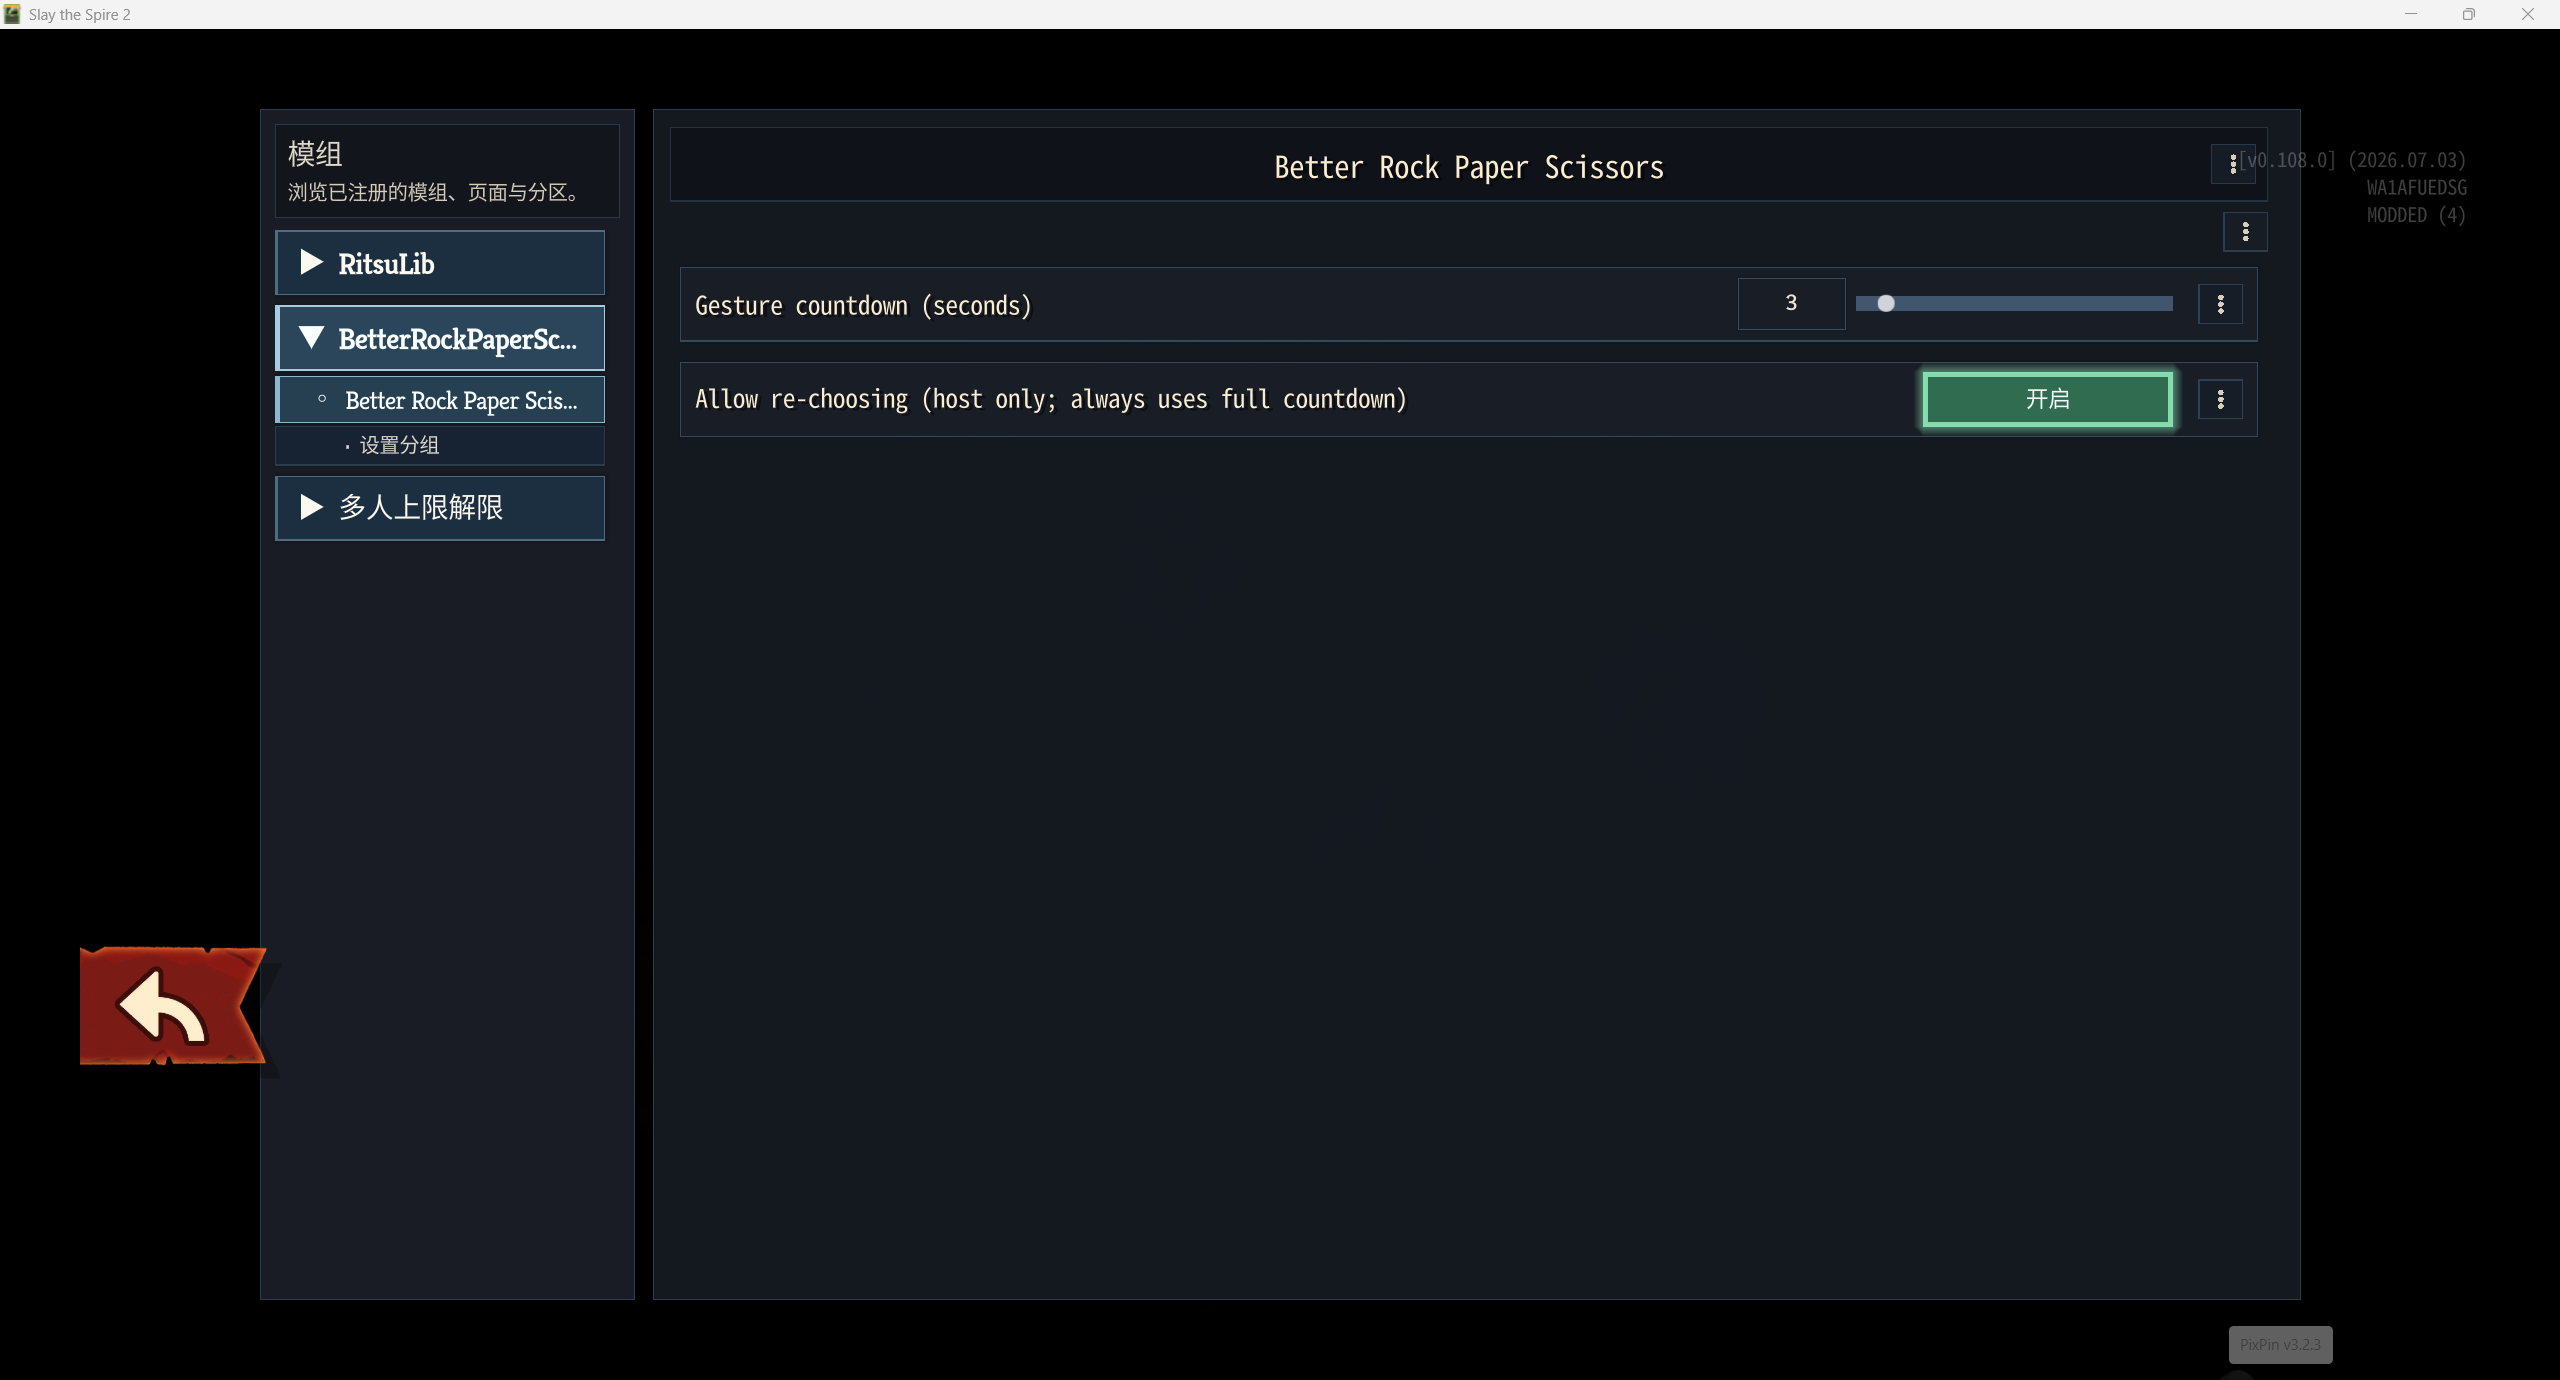
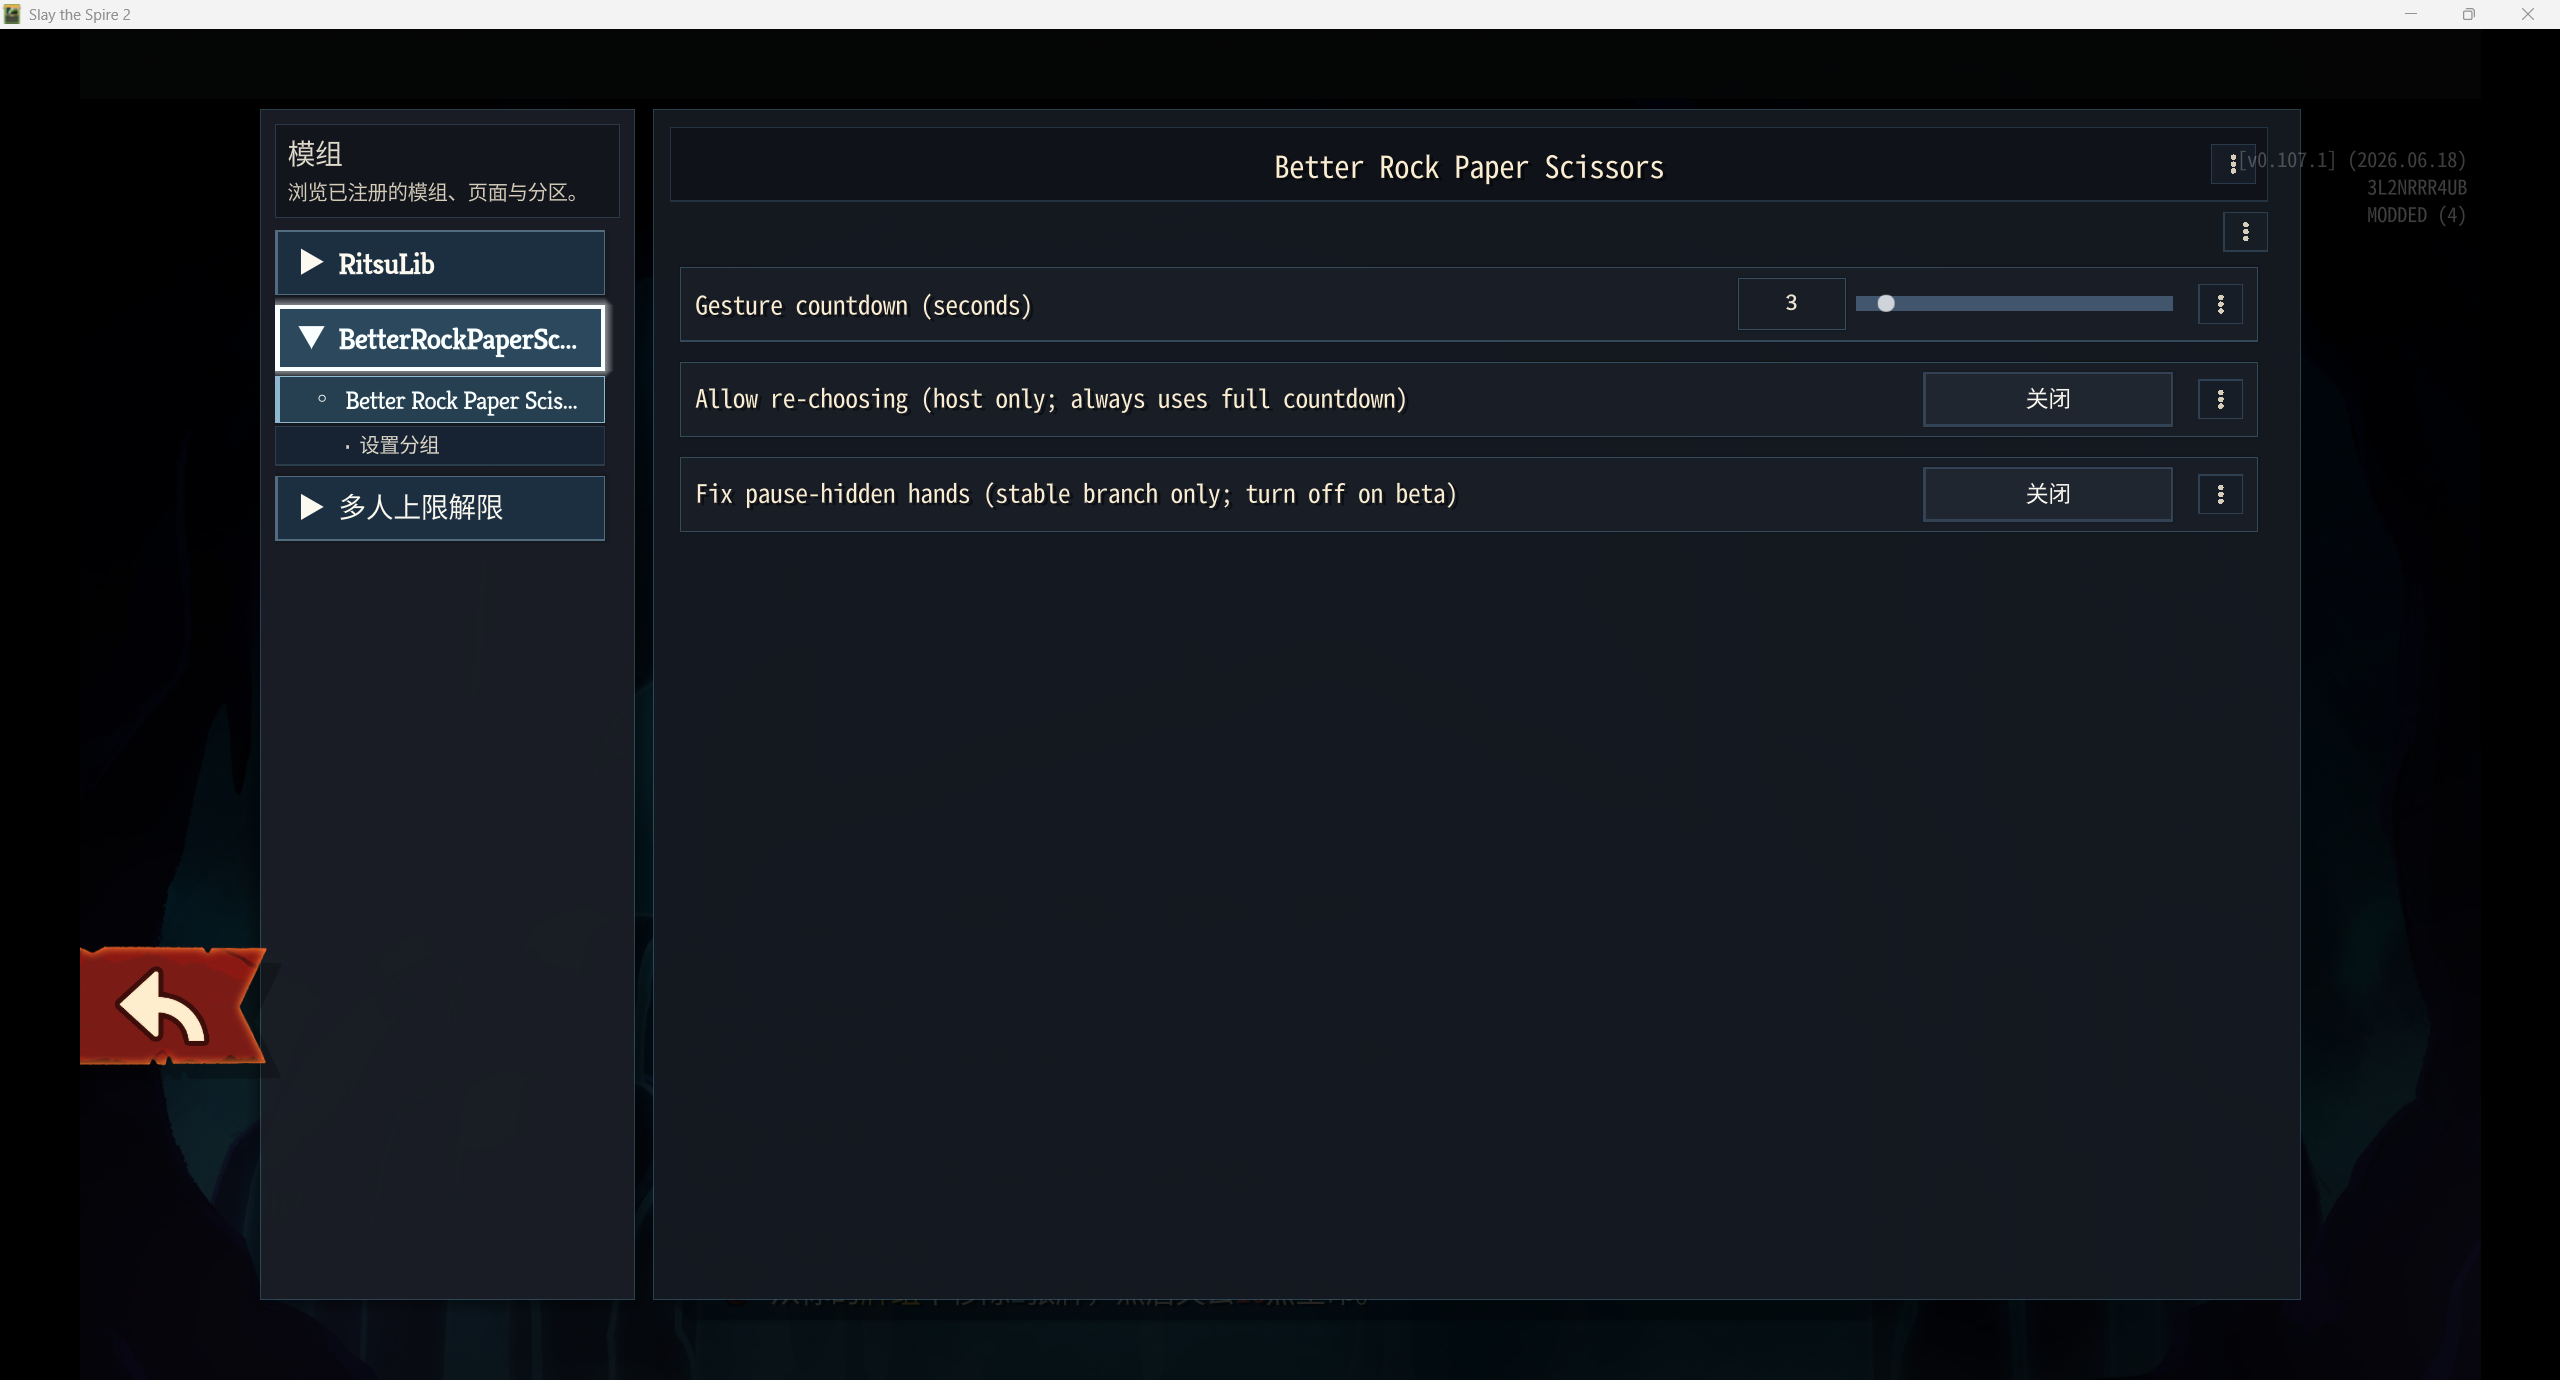
v0.1.1 is tested and works correctly.

diff --git a/src/Patches/HandRestoreOnResumePatch.cs b/src/Patches/HandRestoreOnResumePatch.cs
@@ -1,0 +1,82 @@
+using System.Reflection;
+using Godot;
+using HarmonyLib;
+using MegaCrit.Sts2.Core.Nodes.Screens.TreasureRoomRelic;
+using STS2BetterRockPaperScissors.Settings;
+
+namespace STS2BetterRockPaperScissors.Patches;
+
+/// <summary>
+/// Backfills the STABLE game branch's broken <c>NHandImage.AnimateIn</c> so a fighter hand that
+/// retracted off-screen while a menu was open animates back on-screen when it re-appears.
+///
+/// The bug: during relic awards, hands are in <c>State.Frozen</c>. When a player opens the pause/ESC
+/// menu, their synced screen state changes, so stock <c>NHandImageCollection.UpdateHandVisibility</c>
+/// calls <c>AnimateAway()</c>, which overwrites the hand's private <c>_desiredPosition</c> with an
+/// OFF-screen point. On resume it calls <c>AnimateIn()</c> — but on stable, <c>AnimateIn</c> only
+/// re-runs the slide-in progress tween and never restores <c>_desiredPosition</c> for a frozen hand, so
+/// <c>_Process</c> keeps driving the hand toward the off-screen target. The hand only comes back when
+/// the relic grab later recomputes its position. In real multiplayer this happens per-hand, driven by
+/// each peer's OWN synced screen state, so a remote player's paused hand stays hidden on EVERY peer's
+/// screen — not just their own.
+///
+/// The BETA branch fixed this in-engine by adding, at the end of <c>AnimateIn</c>:
+/// <code>if (_state == State.Frozen) _desiredPosition = GetFrozenPosition();</code>
+/// This postfix reproduces exactly that. Patching <c>AnimateIn</c> itself (rather than watching the
+/// local pause state) means it fires uniformly for local and remote hands, matching beta.
+///
+/// Gated by <see cref="ModConfig.RestoreHandsOnResume"/> — leave OFF on beta so we don't double-apply
+/// the engine's own restore. If the target method or private field can't be resolved the patch simply
+/// doesn't apply (TargetMethod throws are caught by Harmony's PatchAll only if present; here they're
+/// guarded so the rest of the mod still loads).
+/// </summary>
+[HarmonyPatch]
+public static class HandRestoreOnResumePatch
+{
+    private static readonly Type HandType = AccessTools.TypeByName(
+        "MegaCrit.Sts2.Core.Nodes.Screens.TreasureRoomRelic.NHandImage");
+
+    private static readonly FieldInfo DesiredPositionField =
+        HandType != null ? AccessTools.Field(HandType, "_desiredPosition") : null;
+    private static readonly FieldInfo StateField =
+        HandType != null ? AccessTools.Field(HandType, "_state") : null;
+    private static readonly object FrozenStateValue = ResolveFrozen();
+
+    private static object ResolveFrozen()
+    {
+        Type stateType = StateField?.FieldType;
+        if (stateType != null && stateType.IsEnum && Enum.IsDefined(stateType, "Frozen"))
+            return Enum.Parse(stateType, "Frozen");
+        return null;
+    }
+
+    /// <summary>True when every handle resolved, so the postfix can actually run.</summary>
+    private static bool Available =>
+        HandType != null && DesiredPositionField != null && StateField != null && FrozenStateValue != null;
+
+    private static MethodBase TargetMethod()
+    {
+        if (HandType == null)
+            throw new Exception("Cannot find NHandImage type");
+        MethodInfo method = AccessTools.Method(HandType, "AnimateIn");
+        if (method == null)
+            throw new Exception("Cannot find NHandImage.AnimateIn method");
+        return method;
+    }
+
+    private static void Postfix(NHandImage __instance)
+    {
+        if (!Available || !ModConfig.RestoreHandsOnResume)
+            return;
+        // Only touch hands the game has frozen for the awards phase; leave pointing/grabbing hands alone.
+        if (!Equals(StateField.GetValue(__instance), FrozenStateValue))
+            return;
+
+        // Reproduce beta's GetFrozenPosition(): the resting spot the frozen hand slides in to. Matches
+        // stock SetFrozenForRelicAwards' math exactly.
+        Rect2 viewportRect = __instance.GetViewportRect();
+        Vector2 down = Vector2.Down.Rotated(__instance.Rotation);
+        Vector2 frozen = viewportRect.Size / 2f + viewportRect.Size * down * 0.1667f;
+        DesiredPositionField.SetValue(__instance, frozen);
+    }
+}

diff --git a/src/Settings/ModConfig.cs b/src/Settings/ModConfig.cs
@@ -18,12 +18,14 @@ public static class ModConfig
     private const int DefaultCountdownSeconds = 3;
     private const int MaxCountdownSeconds = 30;
     private const bool DefaultAllowReset = false;
+    private const bool DefaultRestoreHandsOnResume = false;
 
     /// <summary>The serialized config model. Kept tiny on purpose.</summary>
     private class Data
     {
         public int CountdownSeconds = DefaultCountdownSeconds;
         public bool AllowReset = DefaultAllowReset;
+        public bool RestoreHandsOnResume = DefaultRestoreHandsOnResume;
     }
 
     /// <summary>Countdown in seconds before a move is auto-picked, clamped to the valid range.</summary>
@@ -45,6 +47,16 @@ public static class ModConfig
     /// host's value (carried on the round-began message), not their own.
     /// </summary>
     public static bool AllowReset => Store.Get<Data>(DataKey).AllowReset;
+
+    /// <summary>
+    /// When true, the mod reseats each frozen fighter hand's resting position when the pause/ESC menu
+    /// closes, so a hand that retracted off-screen while paused animates back on-screen. This works
+    /// around a bug in the STABLE game branch where <c>NHandImage.AnimateIn</c> re-runs the slide-in
+    /// tween but never restores a frozen hand's target position, so the pauser's hand stays off-screen
+    /// until the relic grab. The BETA branch already fixes this in-engine, so leave this OFF on beta to
+    /// avoid fighting the game's own restore. Local/cosmetic only — never touched on non-fighter peers.
+    /// </summary>
+    public static bool RestoreHandsOnResume => Store.Get<Data>(DataKey).RestoreHandsOnResume;
 
     private static ModDataStore Store => RitsuLibFramework.GetDataStore(Entry.ModId);
 
@@ -85,6 +97,16 @@ public static class ModConfig
                         SaveScope.Global,
                         () => Store.Get<Data>(DataKey).AllowReset,
                         value => Store.Get<Data>(DataKey).AllowReset = value,
+                        () => Store.Save(DataKey)))
+                .AddToggle(
+                    "restore_hands_on_resume",
+                    ModSettingsText.Literal("Fix pause-hidden hands (stable branch only; turn off on beta)"),
+                    new ModSettingsCallbackValueBinding<bool>(
+                        Entry.ModId,
+                        "restore_hands_on_resume",
+                        SaveScope.Global,
+                        () => Store.Get<Data>(DataKey).RestoreHandsOnResume,
+                        value => Store.Get<Data>(DataKey).RestoreHandsOnResume = value,
                         () => Store.Save(DataKey)))));
     }
 }

diff --git a/src/Fight/InteractiveFightResolver.cs b/src/Fight/InteractiveFightResolver.cs
@@ -271,21 +271,25 @@ public static class InteractiveFightResolver
 
         while (remaining > 0.0)
         {
-            // Without re-choosing, a completed pick is final — end the round as soon as everyone's in.
-            if (!allowReset
-                && AllSurvivorsReady(relicKey, round, fighters, survivors, localIndex, realMultiplayer, overlay))
-                return;
-
             if (tree == null)
             {
                 await Task.Delay((int)(remaining * 1000));
                 return;
             }
 
+            // Without re-choosing, a completed pick is final — end the round as soon as everyone's in.
+            if (!allowReset
+                && AllSurvivorsReady(relicKey, round, fighters, survivors, localIndex, realMultiplayer, overlay))
+                return;
+
             await tree.ToSignal(tree, SceneTree.SignalName.ProcessFrame);
             remaining -= tree.Root.GetProcessDeltaTime();
             overlay?.SetRemaining(remaining, countdownSeconds);
-            animator?.SyncPauseVisibility(); // hide the raised fight visuals while the ESC menu is up
+            // The ESC menu is a game-logic pause, not a scene-tree pause, so the countdown keeps draining
+            // (correct: the host's authoritative timer never stops, so freezing locally would desync).
+            // Just hide the raised fight visuals + picker while a menu covers them, and restore on resume.
+            animator?.SyncPauseVisibility();
+            overlay?.SyncPauseVisibility();
         }
     }
 
@@ -375,7 +379,10 @@ public static class InteractiveFightResolver
             await tree.ToSignal(tree, SceneTree.SignalName.ProcessFrame);
             remaining -= tree.Root.GetProcessDeltaTime();
             overlay.SetRemaining(remaining, countdownSeconds);
-            animator?.SyncPauseVisibility(); // hide the raised fight visuals while the ESC menu is up
+            // Countdown keeps draining while a menu is open (stays in sync with the host); just hide and
+            // restore the raised fight visuals + picker. See RunAuthoritativeCountdown.
+            animator?.SyncPauseVisibility();
+            overlay.SyncPauseVisibility();
         }
 
         // Catch a pick/re-choose that landed on the final frame before the loop ended.

diff --git a/src/GamePauseState.cs b/src/GamePauseState.cs
@@ -1,0 +1,21 @@
+using MegaCrit.Sts2.Core.Nodes.Screens.Capstones;
+
+namespace STS2BetterRockPaperScissors;
+
+/// <summary>
+/// Branch-agnostic "is a menu covering the run" check.
+///
+/// The beta branch exposes <c>RunManager.Instance.IsPaused</c>, but the stable branch's RunManager has
+/// no such member, so binding to it fails to link on stable. Instead we read the capstone container,
+/// which is byte-for-byte identical across both branches. <c>NCapstoneContainer.InUse</c> is true
+/// whenever a capstone screen is open over the run — the ESC/pause menu (opened via
+/// <c>SubmenuStack.ShowScreen(CapstoneSubmenuType.PauseMenu)</c>, which routes through this container),
+/// plus settings/deck/compendium views — all of which should hide the raised RPS visuals and freeze the
+/// pick window. This is the same signal the game's own top-bar pause button checks against
+/// (NTopBarPauseButton.IsOpen). The static Instance is null-guarded, so this is safe to call every
+/// frame, including before a run node exists.
+/// </summary>
+internal static class GamePauseState
+{
+    public static bool IsMenuOpen => NCapstoneContainer.Instance?.InUse ?? false;
+}

diff --git a/src/Overlays/RpsPickerOverlay.cs b/src/Overlays/RpsPickerOverlay.cs
@@ -44,7 +44,7 @@ public sealed class RpsPickerView
     private readonly TaskCompletionSource<RelicPickingFightMove?> _result =
         new(TaskCreationOptions.RunContinuationsAsynchronously);
 
-    private static readonly Color ResetGlyphColor = new(0.953f, 0.882f, 0.663f); // #f3e1a9
+    private static readonly Color ResetGlyphColor = new(0.992f, 0.925f, 0.796f); // #fdeccb
 
     private readonly Button[] _buttons = new Button[3]; // indexed by (int)RelicPickingFightMove
     private readonly ProgressBar _countdownBar;
@@ -281,6 +281,20 @@ public sealed class RpsPickerView
     }
 
     /// <summary>
+    /// Hide the whole picker while a menu (ESC/pause, settings, ...) covers the run, and re-show it on
+    /// resume. The picker sits at max ZIndex so it stays above the fight backstop, which also means it
+    /// would otherwise draw over the pause menu (that menu is a game-logic pause, not a scene-tree pause,
+    /// so it shares this canvas layer). Called every frame from the resolver loop, INCLUDING while paused
+    /// (SetRemaining is skipped during the pause freeze), so visibility must live here, not there.
+    /// </summary>
+    public void SyncPauseVisibility()
+    {
+        if (_closed)
+            return;
+        _root.Visible = !GamePauseState.IsMenuOpen;
+    }
+
+    /// <summary>
     /// Updates the countdown progress bar. <paramref name="total"/> is the full countdown so the bar
     /// can show a fraction and lerp its fill color green→red as time runs out. Driven by the
     /// resolver's per-frame loop. Keeps ticking after a pick (the chosen hand + bar stay on screen
@@ -290,10 +304,6 @@ public sealed class RpsPickerView
     {
         if (_closed)
             return;
-        // The picker sits at max ZIndex so it stays above the fight backstop, which also means it would
-        // otherwise draw over the pause/ESC menu (that menu uses a game-logic pause, not a scene-tree
-        // pause, so it shares this canvas layer). Hide the whole overlay while the game is paused.
-        _root.Visible = !RunManager.Instance.IsPaused;
         double fraction = total > 0.0 ? Math.Clamp(seconds / total, 0.0, 1.0) : 0.0;
         _countdownBar.Value = fraction;
         _countdownFill.BgColor = CountdownEmpty.Lerp(CountdownFull, (float)fraction);

diff --git a/src/Fight/FightAnimator.cs b/src/Fight/FightAnimator.cs
@@ -260,7 +260,7 @@ public sealed class FightAnimator
     {
         if (!Available || !_fightVisualsActive)
             return;
-        bool paused = RunManager.Instance.IsPaused;
+        bool paused = GamePauseState.IsMenuOpen;
         _backstop.Visible = !paused;
         if (GodotObject.IsInstanceValid(_activeHolder))
             _activeHolder.Visible = !paused;

diff --git a/readme.md b/readme.md
@@ -8,7 +8,7 @@ game with Harmony.
 ## Vanilla compatibility
 
 This mod does not ship replacement game files. It changes behavior entirely at runtime by
-(1) two Harmony patches on vanilla methods, (2) reflection-driven calls into private members of the
+(1) three Harmony patches on vanilla methods, (2) reflection-driven calls into private members of the
 relic-fight nodes, and (3) consuming a number of stock APIs and types as-is. The sections below list
 exactly what is touched, why, and where other mods are likely to collide.
 
@@ -30,6 +30,14 @@ exactly what is touched, why, and where other mods are likely to collide.
 
       (`NGame.Instance.CursorManager.SetCursorShown(true)`). Stock hides the cursor for the whole `SharedRelicPicking` screen and re-runs on every input change, which would hide the cursor needed to click a gesture. Still respects controller mode, so controller players are unaffected. |
 
+3. `NHandImage.AnimateIn()`
+
+   1. kind: **Postfix**
+
+   2. Source: `Patches/HandRestoreOnResumePatch.cs`
+
+   3. Purpose: Works around a **stable-branch** bug where a fighter hand that retracted off-screen while a player had the pause/ESC menu open never returns. When the menu closes the hand animates back in, but stock `AnimateIn` on stable never restores a frozen hand's target position, so it slides toward the stale off-screen point. In real multiplayer this is driven by each peer's own screen state, so a *remote* player's paused hand stays hidden on **every** peer's screen until the relic grab. The postfix reseats a frozen hand's `_desiredPosition` to its on-screen resting spot (reproducing the fix the beta branch already applies in-engine). Gated by the **Fix pause-hidden hands** setting (default on) — turn it **off** on the beta branch to avoid double-applying the engine's own restore.
+
 
 
 ### Vanilla private members invoked by reflection
@@ -46,6 +54,10 @@ signatures:
 If any handle is missing (e.g. a future game update renames them), `FightAnimator.Available` becomes
 `false` and the mod degrades gracefully: winners are still resolved correctly and the stock
 end-of-fight replay acts as the visual fallback.
+
+`Patches/HandRestoreOnResumePatch.cs` additionally reflects `NHandImage`'s private `_desiredPosition`
+and `_state` fields for the pause-hidden-hand fix above. If either is missing the postfix simply
+no-ops, leaving hand behavior untouched.
 
 ### Vanilla APIs and types consumed unchanged
 